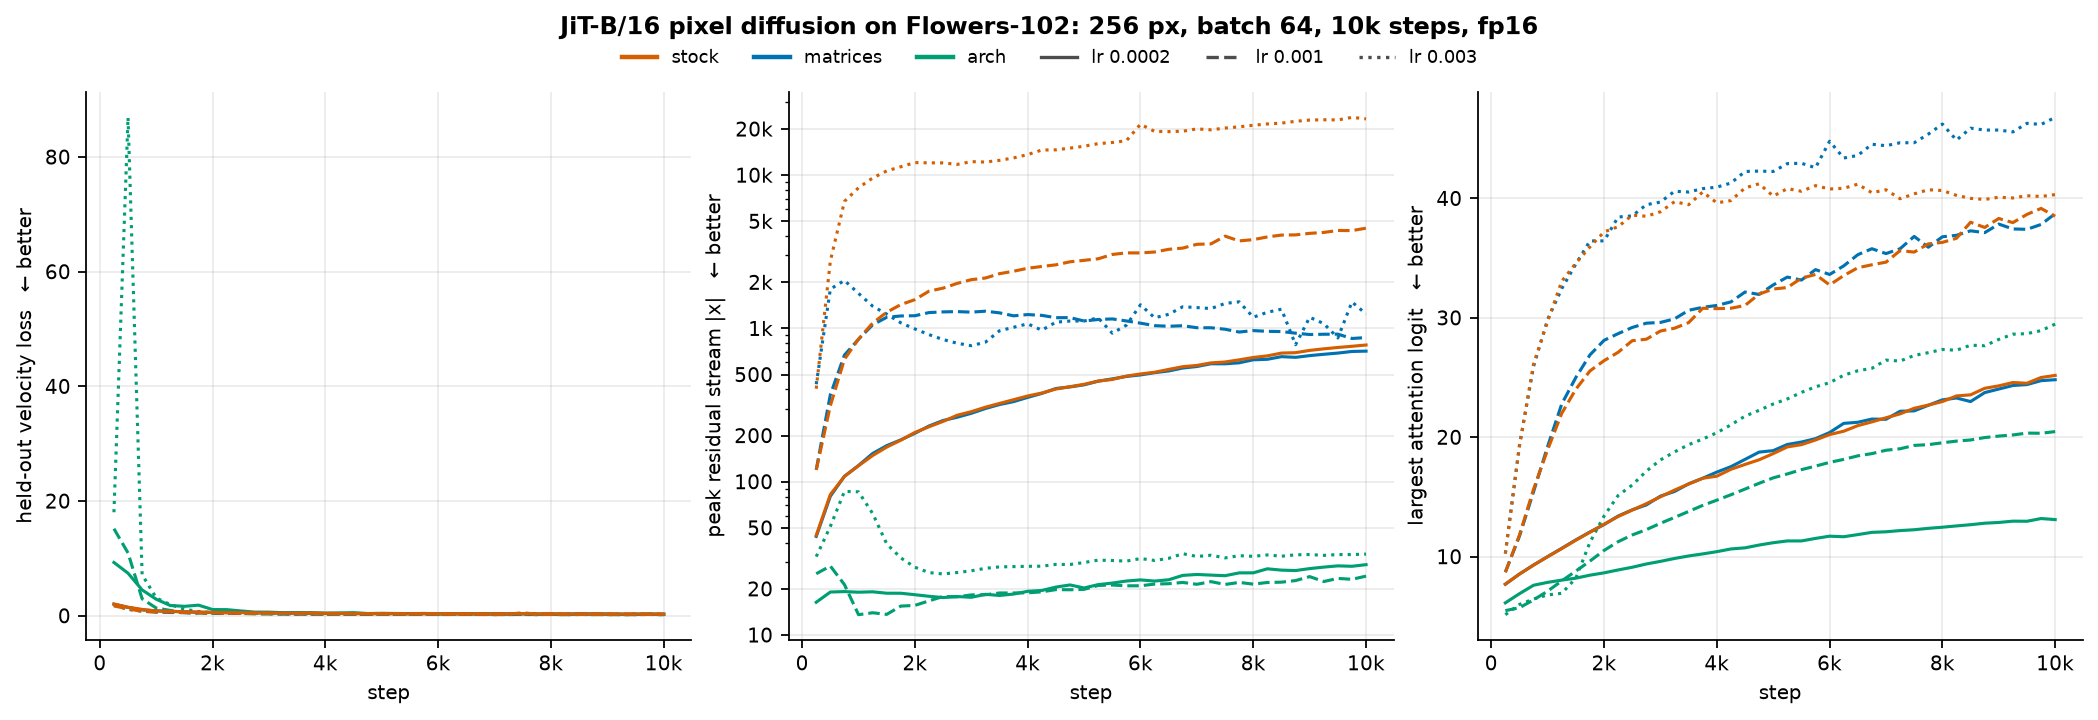
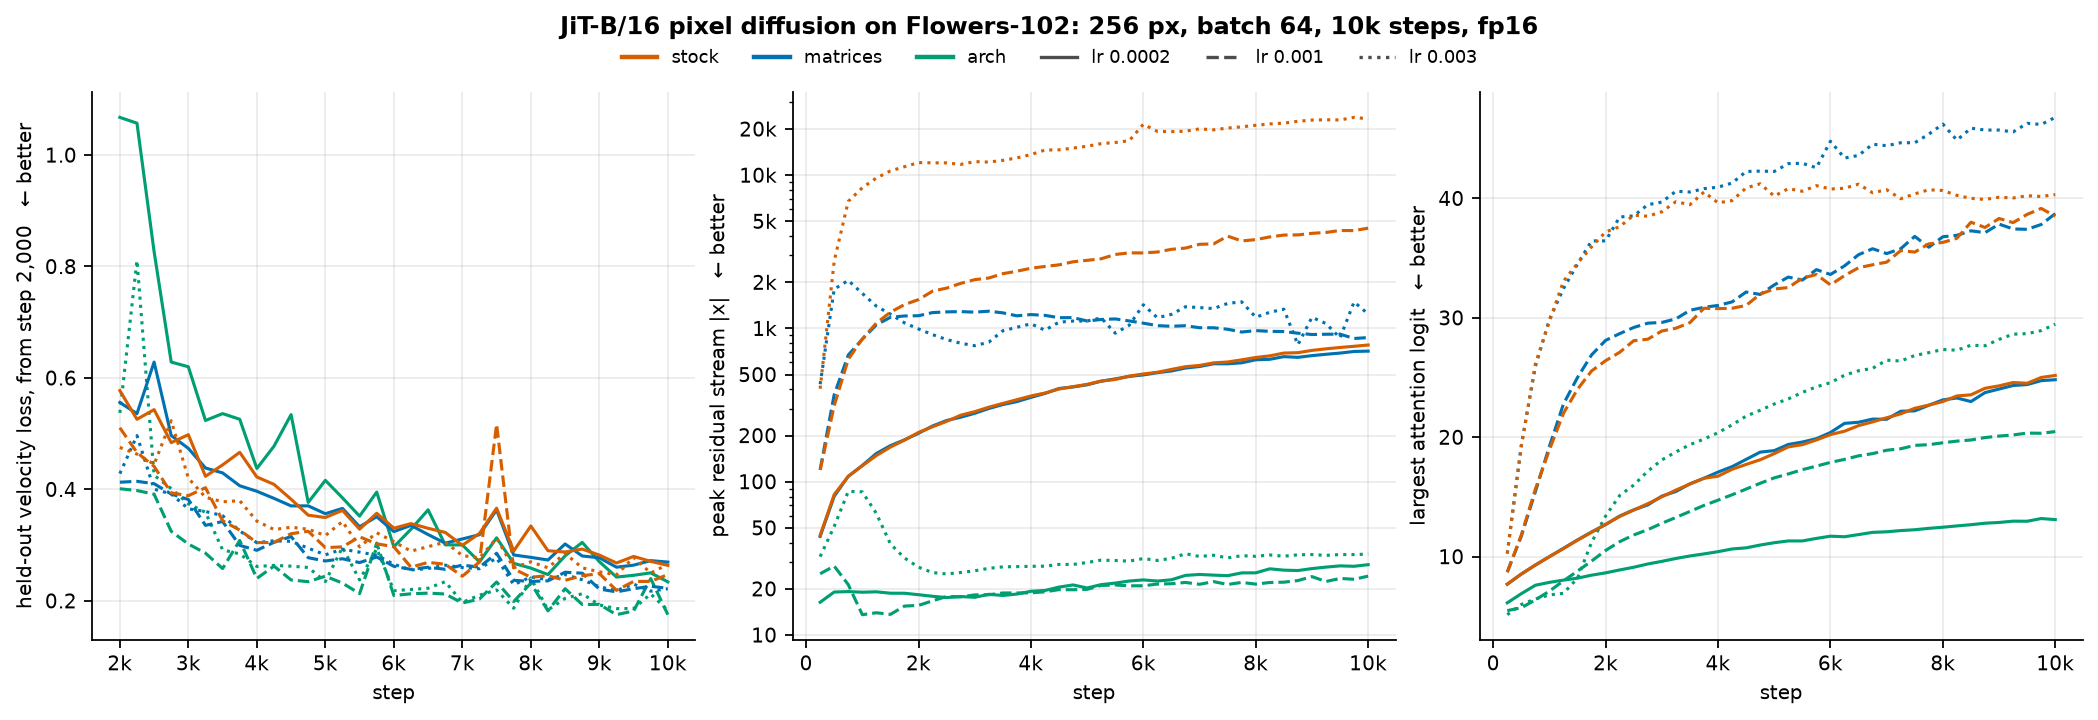
JiT figure and table: compare the loss from step 2k
The first few hundred steps' held-out losses are outliers that flatten
the loss axis.

diff --git a/measure/plots.py b/measure/plots.py
@@ -34,6 +34,7 @@ PRECISION_STYLE = {"fp16": "-", "fp32": "--"}
 LR_STYLES = ("-", "--", ":")
 BYTE_LM = "byte-level LM on the Python standard library"
 B_STEPS = 16_000  # B is compared up to the step every preset reached
+JIT_LOSS_FROM = 2_000  # JiT loss is compared from here: the first steps' losses are outliers
 KERNEL_BACKENDS = {"triton": "#009E73", "compile": "#0072B2", "eager": "#999999"}
 JIT_VARIANTS = (  # (folder, file prefix, label, color, line style)
     ("jit_diag", "stock-tokens-lr", "stock", "#D55E00", "-"),
@@ -501,15 +502,16 @@ def figure_jit() -> None:
     runs = [r for r in runs_of("jit_tokens", group="jit") if knob(r, "PRECISION") == "fp16"]
     lrs = sorted({knob(r, "LR") for r in runs})
     metrics = (
-        ("held_loss", "held-out velocity loss", False),
+        ("held_loss", f"held-out velocity loss, from step {JIT_LOSS_FROM:,}", False),
         ("max/stream_max", "peak residual stream |x|", True),
         ("max/logit_max", "largest attention logit", False),
     )
     fig, axes = figure(3, width=13)
     for run in runs:
         preset, lr = knob(run, "PRESET"), knob(run, "LR")
-        rows = [r for r in run["logs"] if r["step"] > 0]
         for ax, (key, _, _) in zip(axes, metrics, strict=True):
+            start = JIT_LOSS_FROM if key == "held_loss" else 1
+            rows = [r for r in run["logs"] if r["step"] >= start]
             ax.plot(
                 [r["step"] for r in rows],
                 [r.get(key, math.nan) for r in rows],

diff --git a/README.md b/README.md
@@ -389,7 +389,9 @@ model as in stock. Without it, and with the context tokens read-only, the stream
 
 ![JiT-B/16 over 10k steps per preset and learning rate: held-out velocity loss and peak stream](docs/assets/jit.png)
 
-| preset | lr | held-out loss, 10k steps | peak stream |
+The loss is compared from step 2k: the first few hundred steps' losses are outliers.
+
+| preset | lr | best held-out loss, steps 2k-10k | peak stream |
 | --- | --- | --- | --- |
 | stock | 2e-4 | 0.264 | 779 |
 | stock | 1e-3 | 0.219 | 4,506 |
